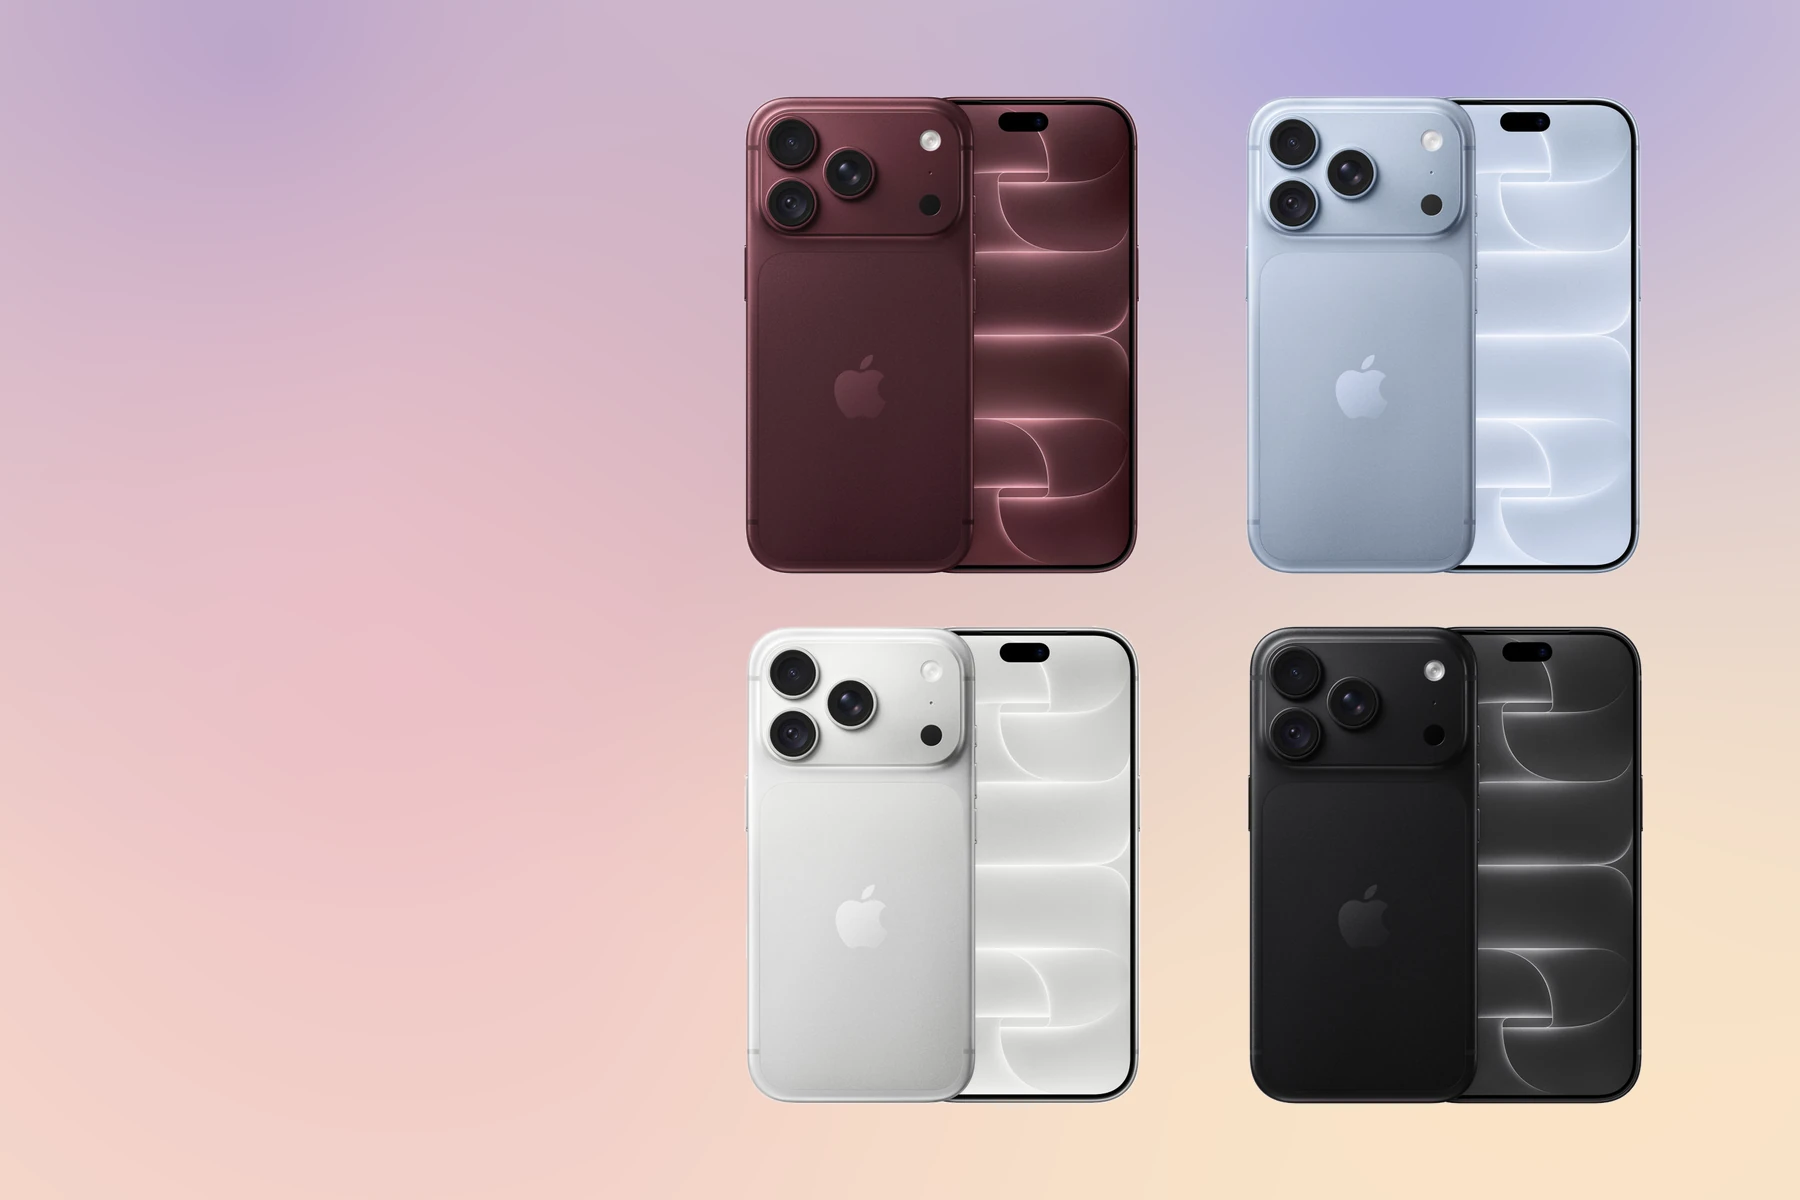
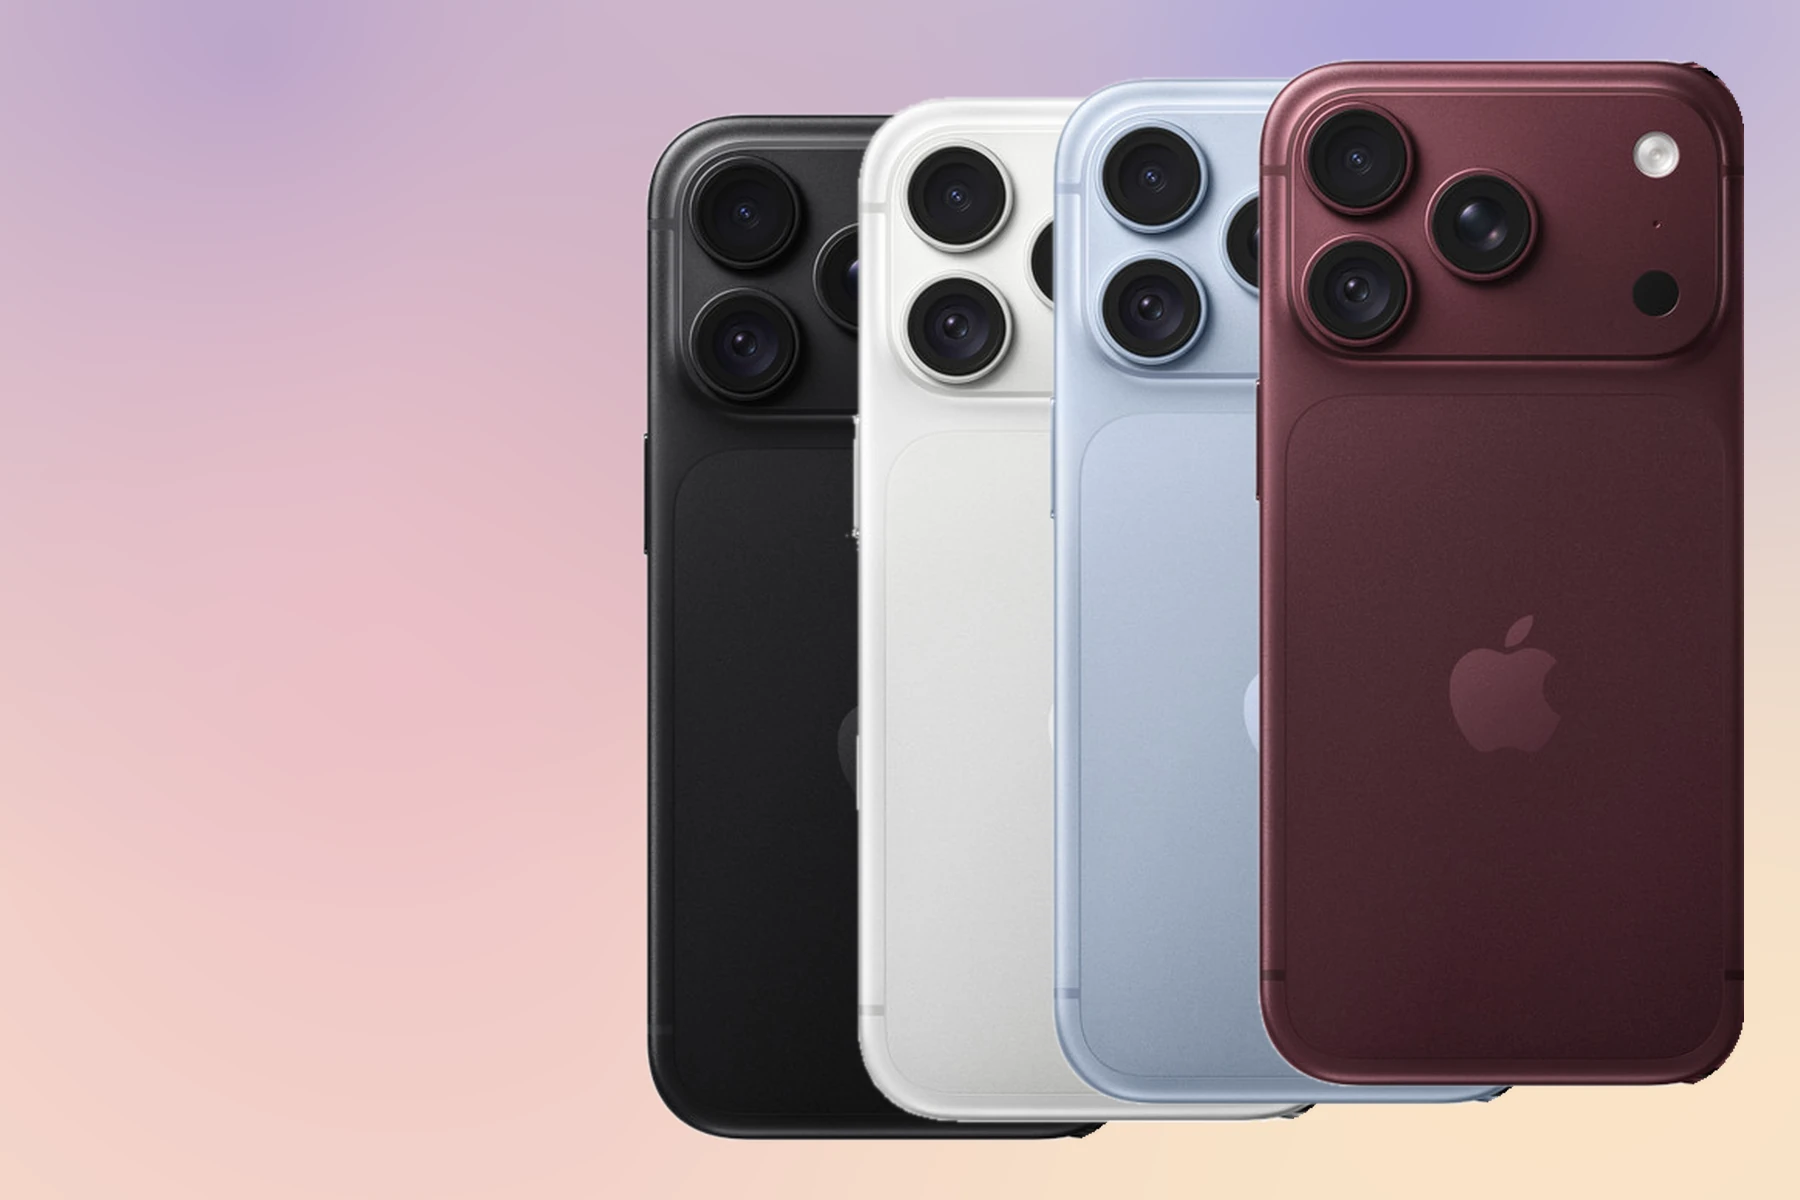
feat(iphone18): баннер веером крупнее; пост в rich-формате с таблицами по памяти

diff --git a/backend/app/scripts/post_iphone18_instock.py b/backend/app/scripts/post_iphone18_instock.py
@@ -92,6 +92,65 @@ def build_body(db) -> str:
     return body
 
 
+STORAGES = ("256 ГБ", "512 ГБ", "1 ТБ", "2 ТБ")
+
+
+def storage_table(db, prefix: str) -> list[tuple[str, float]]:
+    """Память -> самая низкая цена новой версии. Пустые объёмы пропускаются."""
+    rows = []
+    for storage in STORAGES:
+        token = storage.split()[0] + ("TB" if "ТБ" in storage else "")
+        price = (db.query(func.min(Product.price))
+                 .filter(Product.sku.like(f"{prefix}{token}-%"),
+                         Product.is_active.is_(True), Product.in_stock.is_(True),
+                         Product.price > 0, ~Product.sku.like("%-ACT"))
+                 .scalar())
+        if price is not None:
+            rows.append((storage, price))
+    return rows
+
+
+def build_rich(db, image_url: str | None) -> str:
+    """Rich-версия поста — по методике постов канала (artifacts/channel-posts):
+    заголовок, кадр, короткий лид, цитата, раскрывающиеся блоки с таблицами.
+
+    Таблица по памяти, а не по регионам: человек выбирает объём, регион и SIM
+    уточняются в карточке. Цифры — из базы в момент запуска, как и в body."""
+    parts = ["<h3>iPhone 18 Pro и Pro Max приехали</h3>"]
+    if image_url:
+        parts.append(f'<img src="{image_url}"/>')
+    parts.append(
+        "<p>Все четыре цвета — Burgundy, Glacier, Silver и Black, память от 256 ГБ "
+        "до 2 ТБ. Аппараты новые, в плёнке, можно забрать сегодня.</p>")
+    parts.append(
+        "<blockquote>Burgundy — новый цвет этого поколения. Живьём он темнее "
+        "и спокойнее, чем на рендерах.</blockquote>")
+    parts.append("<hr/>")
+    for name, prefix in MODELS:
+        table = storage_table(db, prefix)
+        if not table:
+            continue
+        cells = "".join(f"<tr><td><b>{st}</b></td><td>от {rub(pr)}</td></tr>"
+                        for st, pr in table)
+        parts.append(f"<details>\n<summary><b>{name} — от {rub(table[0][1])}</b></summary>\n"
+                     f"<table>{cells}</table>\n</details>")
+    parts.append(
+        "<details>\n<summary><b>SIM + eSIM или только eSIM</b></summary>\n"
+        "<p>Версии для Кореи и Гонконга — с физической SIM и eSIM. Версии для США "
+        "и Кувейта — только eSIM, они дешевле. Если пользуетесь обычной "
+        "SIM-картой — берите SIM + eSIM; регион указан в каждой карточке.</p>\n"
+        "</details>")
+    parts.append(
+        "<details>\n<summary><b>А что с Duo, часами и AirPods</b></summary>\n"
+        "<p>iPhone Duo ждём 23 октября, Apple Watch Series 12, Ultra 4 и AirPods 5 "
+        "— следом. На всё открыт предзаказ без предоплаты: менеджер свяжется, "
+        "назовёт цену и срок.</p>\n</details>")
+    parts.append("<hr/>")
+    parts.append("<footer>Цена каждой версии — в приложении и в прайсе канала. "
+                 "Гарантия магазина — 1 месяц.</footer>")
+    return "\n\n".join(parts)
+
+
 def buttons() -> list[dict]:
     """Главная кнопка ведёт на экран события: там обе модели с описанием и
     выходом ко всем вариантам — тот же экран, что у первого баннера главной."""
@@ -107,7 +166,8 @@ def plain_length(html: str) -> int:
     return len(re.sub(r"<[^>]+>", "", html))
 
 
-def prepare(db, body: str, *, dry_run: bool) -> tuple[ChannelPost, list[str]]:
+def prepare(db, body: str, *, dry_run: bool,
+            republish: bool = False) -> tuple[ChannelPost, list[str]]:
     changed: list[str] = []
 
     for sku in PREORDER_SKUS:
@@ -147,6 +207,20 @@ def prepare(db, body: str, *, dry_run: bool) -> tuple[ChannelPost, list[str]]:
         post.image_url = save_image("image/webp", IMAGE.read_bytes())
         changed.append(f"картинка: {post.image_url}")
 
+    rich = build_rich(db, post.image_url)
+    if post.rich_html != rich:
+        post.rich_html = rich
+        changed.append("rich-версия")
+        if post.telegram_message_id:
+            post.status = "outdated"
+    # Фото с подписью Telegram не превращает в rich-текст правкой: сообщение
+    # приходится публиковать заново. Старое удаляется РУКАМИ в канале.
+    if republish and post.telegram_message_id:
+        changed.append(f"публикуем заново; старое сообщение {post.telegram_message_id} "
+                       "удалите в канале вручную")
+        post.telegram_message_id = None
+        post.status = "draft"
+
     db.flush()
     return post, changed
 
@@ -155,6 +229,8 @@ def main() -> int:
     parser = argparse.ArgumentParser(description=__doc__)
     parser.add_argument("--confirm", action="store_true",
                         help="применить и опубликовать (без него — только показать)")
+    parser.add_argument("--republish", action="store_true",
+                        help="опубликовать новым сообщением (переход с фото на rich)")
     args = parser.parse_args()
     dry_run = not args.confirm
 
@@ -172,7 +248,8 @@ def main() -> int:
             print("!! подпись длиннее предела Telegram — сократите текст")
             return 1
 
-        post, changed = prepare(db, body, dry_run=dry_run)
+        post, changed = prepare(db, body, dry_run=dry_run, republish=args.republish)
+        print(post.rich_html, "\n")
         print("изменения:", ", ".join(changed) if changed else "нет")
         print("в канале:", f"message_id={post.telegram_message_id}"
               if post.telegram_message_id else "ещё не публиковался")

diff --git a/scripts/compose_instock_18.py b/scripts/compose_instock_18.py
@@ -15,7 +15,7 @@ from __future__ import annotations
 
 import sys
 
-from PIL import Image
+from PIL import Image, ImageChops, ImageDraw
 
 from compose_preorder_banner import (FIELD_LEFT, FIELD_RIGHT, H, POST_H, POST_W, SRC, W,
                                      _place_row, _row, cutout, gradient, scaled)
@@ -58,28 +58,49 @@ def compose(out: str | None = None) -> None:
 BANNER_OUT = "frontend/public/assets/promos/iphone18-instock.webp"
 
 
+def _back(color: str) -> Image.Image:
+    """Только спинка из пары «спинка + экран»: в баннере важен цвет корпуса,
+    а экран у всех четырёх одинаковый и только съедал бы место."""
+    pair = cutout(f"{SRC}/iphone18pro-{color}.jpg", TOLERANCE.get(color, 26))
+    # Спинка — левая часть пары; экран подложен под неё справа. Режем по
+    # ширине спинки (≈0.585 пары) и заново обрезаем по непрозрачному.
+    back = pair.crop((0, 0, int(pair.width * 0.575), pair.height))
+    back = back.crop(back.getbbox())
+    # Экран подложен под спинку и выглядывает из-за её скруглённых углов
+    # тёмными полосками. Режем по силуэту самой спинки: скруглённый
+    # прямоугольник, радиус снят с кадра (~16% ширины корпуса).
+    mask = Image.new("L", back.size, 0)
+    ImageDraw.Draw(mask).rounded_rectangle(
+        (0, 0, back.width - 1, back.height - 1), radius=int(back.width * 0.16), fill=255)
+    alpha = ImageChops.multiply(back.getchannel("A"), mask)
+    back.putalpha(alpha)
+    return back
+
+
 def compose_banner(out: str | None = None) -> None:
-    """Тот же сюжет для первого баннера главной, но в его раме: левая треть
-    пустая — HeroBanner кладёт туда заголовок (FIELD_LEFT в соседнем скрипте).
-    Сетка 2×2 целиком в правой зоне."""
+    """Первый баннер главной: четыре цвета веером, крупно.
+
+    Левая треть пустая — HeroBanner кладёт туда заголовок (FIELD_LEFT в
+    соседнем скрипте). Первая сетка 2×2 из пар «спинка + экран» делала
+    аппараты мелкими: на телефоне баннер узкий, и они терялись. Веер из одних
+    спинок даёт каждому цвету почти всю высоту кадра, а камера — главное, что
+    отличает поколение, — остаётся открытой: следующий корпус перекрывает
+    предыдущий справа, а блок камер сидит слева."""
     canvas = gradient(W, H)
-    pair_h = 480
-    gap_y = 50
-    pairs = [[scaled(cutout(f"{SRC}/iphone18pro-{c}.jpg", TOLERANCE.get(c, 26)), pair_h)
-              for c in row] for row in COLORS]
+    order = ("black", "silver", "glacier", "burgundy")   # главный цвет — сверху
+    height = int(H * 0.86)
+    backs = [scaled(_back(c), height) for c in order]
     span = FIELD_RIGHT - FIELD_LEFT
-    top = (H - (2 * pair_h + gap_y)) // 2
-    for r, row in enumerate(pairs):
-        total = sum(p.width for p in row)
-        gap = (span - total) // 3
-        assert gap > 30, f"не помещается: {gap}"
-        x = FIELD_LEFT + gap
-        for p in row:
-            canvas.alpha_composite(p, (x, top + r * (pair_h + gap_y)))
-            x += p.width + gap
+    step = (span - backs[0].width) // (len(backs) - 1)
+    assert step > backs[0].width * 0.3, f"веер слишком плотный: {step}px"
+    top = (H - height) // 2
+    for i, back in enumerate(backs):
+        # Лёгкая лесенка по вертикали: ровный ряд читался бы витриной, а не веером.
+        dy = (len(backs) - 1 - i) * 18 - 27
+        canvas.alpha_composite(back, (FIELD_LEFT + i * step, top + dy))
     target = out or BANNER_OUT
     canvas.convert("RGB").save(target, "WEBP", quality=90, method=6)
-    print(f"{target}: {Image.open(target).size}")
+    print(f"{target}: {Image.open(target).size}, шаг веера {step}px")
 
 
 if __name__ == "__main__":

diff --git a/backend/tests/test_post_iphone18_instock.py b/backend/tests/test_post_iphone18_instock.py
@@ -34,3 +34,13 @@ def test_prepare_retires_preorder_and_marks_new(db):
     assert db.query(Product).filter_by(sku="IP-18PRO-256-BLACK-KRHK-SIM").one().is_new
     assert row.image_url is None          # в предпросмотре картинку не кладём
     assert row.button_spec[0]["kind"] == "preorder"
+
+
+def test_rich_version_has_storage_tables_without_activated(db):
+    _seed(db)
+    row, _ = post.prepare(db, post.build_body(db), dry_run=True)
+    rich = row.rich_html
+    assert "<details>" in rich and "<table>" in rich
+    assert "<summary><b>iPhone 18 Pro — от 128 500 ₽</b></summary>" in rich
+    assert "<td><b>512 ГБ</b></td><td>от 154 500 ₽</td>" in rich
+    assert "123 000" not in rich            # активированный в таблицу не попадает
